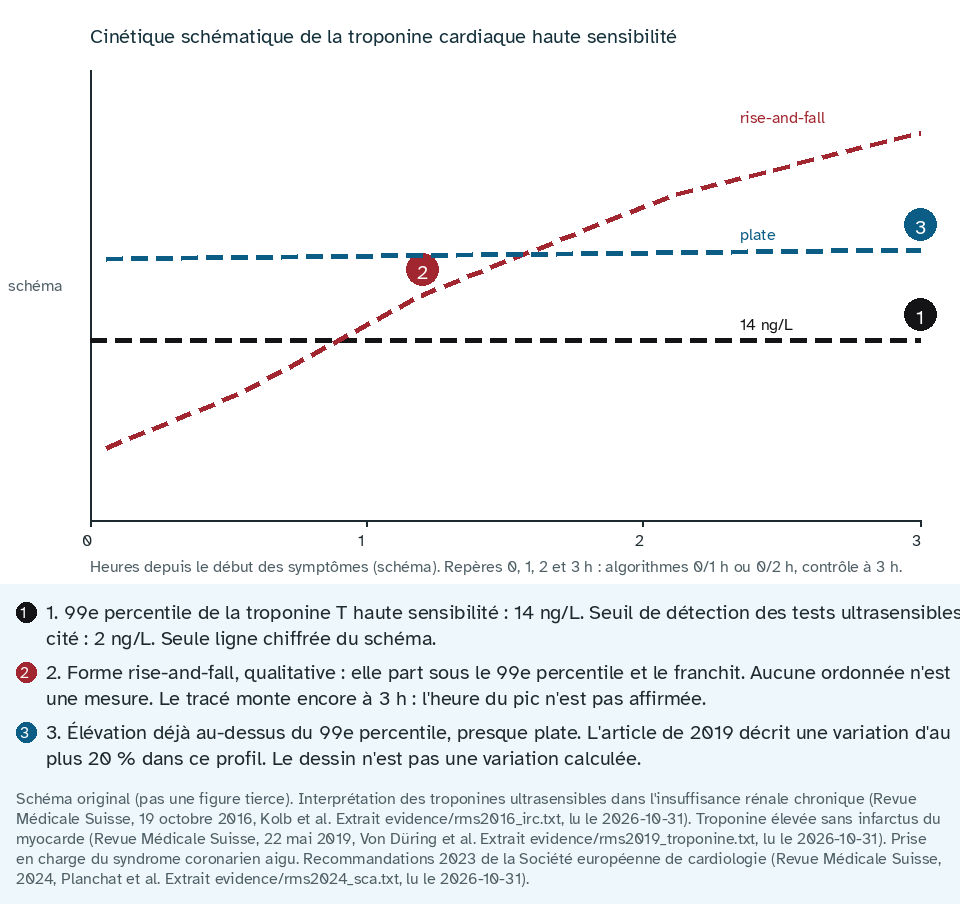
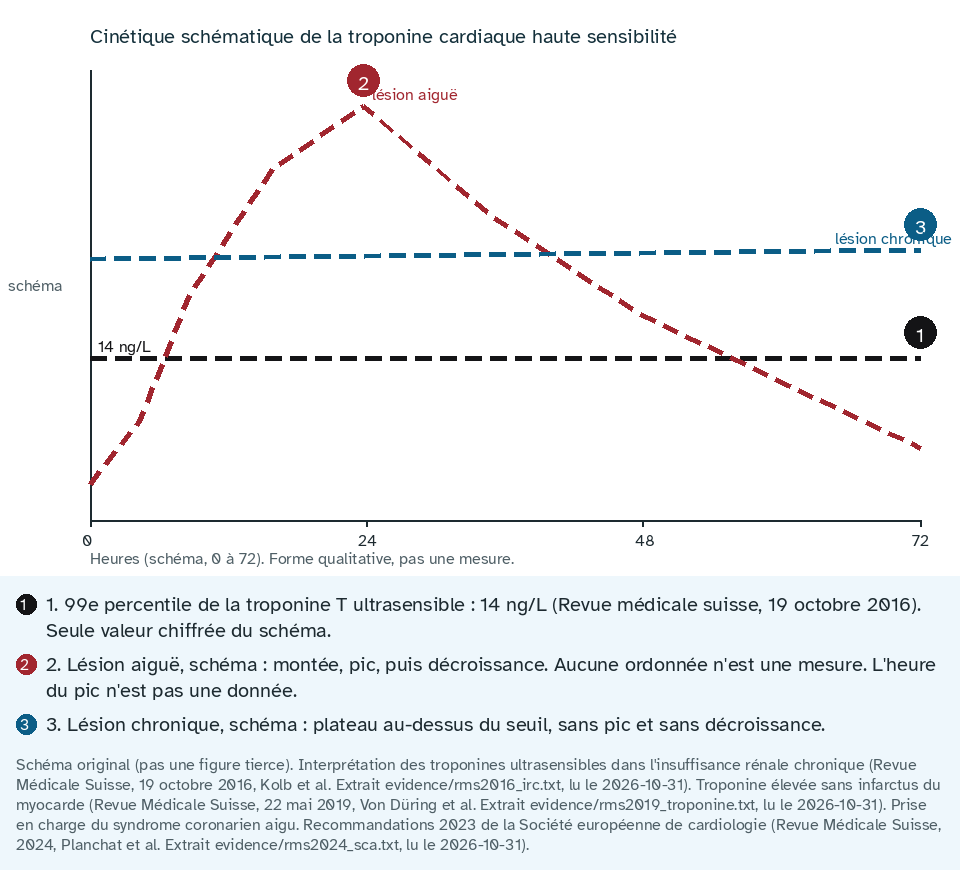
Illustration LOT 150 : aorte descendante et cinétique qui redescend
Le scanner Commons de type Stanford B remplace la coupe ambiguë. Les légendes reviennent à la ligne, y compris un mot trop long.

diff --git a/grok-LOTS-html/outils/illustration/exemples/LOT_150/exemple.html b/grok-LOTS-html/outils/illustration/exemples/LOT_150/exemple.html
@@ -28,12 +28,12 @@ figcaption ol{color:var(--texte);text-align:left;padding-left:1.2rem}
 <h1>Exemple d&#x27;illustration, enzymes cardiaques anormales</h1>
 <p class="avertissement">Document de démonstration de l'outil d'illustration, non validé cliniquement.</p>
 <figure class="schema illustration">
-<img src="lot150-dx9-scanner.png" alt="Scanner axial injecté d&#x27;une dissection de l&#x27;aorte ascendante, trois contours en pointillés">
+<img src="lot150-dx9-scanner.png" alt="Scanner injecté : aorte descendante avec voile intimal, coupe axiale et coronale">
 <figcaption>
-<strong>Dissection aortique aiguë, coupe axiale injectée</strong>
-<ol start="1"><li>Voile intimal : interface linéaire courbe dans l&#x27;aorte ascendante, sous le repère antérieur du cliché.</li><li>Compartiment le plus étroit, du côté gauche du voile sur cette photographie.</li><li>Compartiment le plus large, du côté droit du voile.</li></ol>
-<p>Coupe axiale photographiée après injection (la mention du produit de contraste est sur le fichier source, hors cadre). L&#x27;aorte ascendante est le gros vaisseau antérieur. Un voile linéaire la partage en deux compartiments. La page du fichier qualifie le cliché de dissection de type Stanford A, donc avec atteinte de l&#x27;aorte ascendante. Les croix et les pointillés blancs sont les mesures du fichier d&#x27;origine. Le contour coloré est l&#x27;annotation ajoutée. Cette photographie de film ne permet pas une mesure en unités Hounsfield : le vrai chenal et le faux chenal ne sont pas départagés ici par la densité.</p><p><strong>Pièges.</strong> Ne pas prendre les pointillés blancs du fichier source pour l&#x27;annotation. Ne pas conclure à un vrai chenal sur la seule impression de gris de cette photographie. Une seule coupe ne montre pas la porte d&#x27;entrée.</p>
-<p class="mention">Source : J. Heuser JHeuser. Licence : CC BY-SA 3.0. http://creativecommons.org/licenses/by-sa/3.0/ https://commons.wikimedia.org/wiki/File:AoDiss_CT_A-Diss.jpg Consulté le 2026-10-31. Image modifiée : recadrage pour retirer le cartouche technique du film (date et paramètres). Contours en pointillés et numéros ajoutés. Le parenchyme n&#x27;est pas retouché.</p>
+<strong>Dissection de l&#x27;aorte descendante, type Stanford B</strong>
+<ol start="1"><li>Voile intimal : interface courbe dans la lumière ronde, à gauche du rachis. La source nomme une dissection de l&#x27;aorte descendante.</li><li>Chenal le plus opacifié : croissant blanc dans cette aorte descendante. Le fichier ne le nomme pas vrai chenal.</li><li>Chenal le moins opacifié : le reste de la même lumière, plus gris. Le fichier ne le nomme pas faux chenal.</li></ol>
+<p>Scanner du thorax injecté, coupes axiale et coronale. La description du fichier indique une dissection traumatique de l&#x27;aorte descendante, type Stanford B. Le cercle et l&#x27;ovale rouges sont les marques de l&#x27;auteur. Les pointillés ajoutés restent dans la lumière ronde, du côté gauche du patient (à droite de l&#x27;image). Le repère « droite du patient » est à gauche de l&#x27;image. L&#x27;aorte ascendante n&#x27;est pas cernée : elle n&#x27;est pas isolée sur cette coupe.</p><p><strong>Pièges.</strong> Ne pas suivre le cercle rouge : il dépasse la lumière aortique. Ne pas appeler vrai chenal ou faux chenal ce que la source ne nomme pas.</p>
+<p class="mention">Source : JasonRobertYoungMD. Licence : CC BY-SA 4.0. https://creativecommons.org/licenses/by-sa/4.0 https://commons.wikimedia.org/wiki/File:Descending_(Type_B_Stanford)_Aortic_Dissection.PNG Consulté le 2026-10-31. Pointillés, numéros et repère « droite du patient » ajoutés. Le cercle rouge et l&#x27;ovale rouge sont ceux de l&#x27;auteur.</p>
 </figcaption>
 </figure>
 <figure class="schema illustration">
@@ -46,30 +46,30 @@ figcaption ol{color:var(--texte);text-align:left;padding-left:1.2rem}
 <line x1="90.0" y1="420" x2="90.0" y2="426" stroke="#1d2a30" stroke-width="2"/>
 <text x="82.0" y="446" font-size="15">0</text>
 <line x1="359.7" y1="420" x2="359.7" y2="426" stroke="#1d2a30" stroke-width="2"/>
-<text x="351.7" y="446" font-size="15">1</text>
+<text x="351.7" y="446" font-size="15">24</text>
 <line x1="629.5" y1="420" x2="629.5" y2="426" stroke="#1d2a30" stroke-width="2"/>
-<text x="621.5" y="446" font-size="15">2</text>
+<text x="621.5" y="446" font-size="15">48</text>
 <line x1="900.0" y1="420" x2="900.0" y2="426" stroke="#1d2a30" stroke-width="2"/>
-<text x="892.0" y="446" font-size="15">3</text>
-<text x="90" y="468" font-size="15" fill="#4f5f66">Heures depuis le début des symptômes (schéma). Repères 0, 1, 2 et 3 h : algorithmes 0/1 h ou 0/2 h, contrôle à 3 h.</text>
-<polyline points="90.0,274.4 900.0,274.4" fill="none" stroke="#141416" stroke-width="4" stroke-dasharray="14 8" stroke-linecap="round"/>
-<circle cx="900.0" cy="252.4" r="14" fill="#141416"/>
-<text x="895.0" y="257.4" font-size="16" fill="#ffffff">1</text>
-<polyline points="106.2,361.8 235.8,318.1 414.0,238.0 657.0,157.9 900.0,107.0" fill="none" stroke="#a1262f" stroke-width="4" stroke-dasharray="14 8" stroke-linecap="round"/>
-<circle cx="414.0" cy="216.0" r="14" fill="#a1262f"/>
-<text x="409.0" y="221.0" font-size="16" fill="#ffffff">2</text>
-<polyline points="106.2,208.9 900.0,201.6" fill="none" stroke="#0b5d86" stroke-width="4" stroke-dasharray="14 8" stroke-linecap="round"/>
+<text x="892.0" y="446" font-size="15">72</text>
+<text x="90" y="468" font-size="15" fill="#4f5f66">Heures (schéma, 0 à 72). Forme qualitative, pas une mesure.</text>
+<polyline points="90.0,289.0 900.0,289.0" fill="none" stroke="#141416" stroke-width="4" stroke-dasharray="14 8" stroke-linecap="round"/>
+<circle cx="900.0" cy="267.0" r="14" fill="#141416"/>
+<text x="895.0" y="272.0" font-size="16" fill="#ffffff">1</text>
+<polyline points="90.0,390.9 138.6,339.9 187.2,238.0 268.2,136.1 357.3,85.1 478.8,172.5 624.6,252.6 770.4,310.8 900.0,361.8" fill="none" stroke="#a1262f" stroke-width="4" stroke-dasharray="14 8" stroke-linecap="round"/>
+<circle cx="357.3" cy="63.1" r="14" fill="#a1262f"/>
+<text x="352.3" y="68.1" font-size="16" fill="#ffffff">2</text>
+<polyline points="90.0,208.9 900.0,201.6" fill="none" stroke="#0b5d86" stroke-width="4" stroke-dasharray="14 8" stroke-linecap="round"/>
 <circle cx="900.0" cy="179.6" r="14" fill="#0b5d86"/>
 <text x="895.0" y="184.6" font-size="16" fill="#ffffff">3</text>
 </svg>
 <figcaption>
 <strong>Cinétique schématique de la troponine cardiaque haute sensibilité</strong>
-<ol start="1"><li>99e percentile de la troponine T haute sensibilité : 14 ng/L. Seuil de détection des tests ultrasensibles cité : 2 ng/L. Seule ligne chiffrée du schéma.</li><li>Forme rise-and-fall, qualitative : elle part sous le 99e percentile et le franchit. Aucune ordonnée n&#x27;est une mesure. Le tracé monte encore à 3 h : l&#x27;heure du pic n&#x27;est pas affirmée.</li><li>Élévation déjà au-dessus du 99e percentile, presque plate. L&#x27;article de 2019 décrit une variation d&#x27;au plus 20 % dans ce profil. Le dessin n&#x27;est pas une variation calculée.</li></ol>
-<p>Schéma original, pas une figure copiée. L&#x27;axe vertical n&#x27;a pas d&#x27;échelle de patient : le seul chiffre de concentration est la ligne 1. Un changement absolu de 7 ng/L, soit 50 % de l&#x27;URL, est le critère de cinétique significative cité en 2016 pour la troponine T ultrasensible. Les mêmes auteurs discutent un changement relatif supérieur à 20 % lorsque toutes les mesures sont déjà positives. La Société européenne de cardiologie, dans le résumé suisse de 2024, recommande un algorithme à l&#x27;admission et à 1 heure, ou à 2 heures si le premier n&#x27;est pas faisable, puis une voie d&#x27;observation avec un dosage à 3 heures. Les seuils numériques propres à chaque dosage ne sont pas dessinés : l&#x27;extrait lu dit qu&#x27;ils dépendent du fabricant.</p><p><strong>Pièges.</strong> La troponine est spécifique du myocarde, pas d&#x27;une maladie (article de 2019). Aucun extrait lu ne donne une cinétique propre à la dissection aortique. Ne pas lire les courbes comme le résultat d&#x27;un patient. Ne pas confondre ce schéma avec les seuils 0/1 h d&#x27;un fabricant, qui ne sont pas dans l&#x27;extrait de 2024.</p>
+<ol start="1"><li>99e percentile de la troponine T ultrasensible : 14 ng/L (Revue médicale suisse, 19 octobre 2016). Seule valeur chiffrée du schéma.</li><li>Lésion aiguë, schéma : montée, pic, puis décroissance. Aucune ordonnée n&#x27;est une mesure. L&#x27;heure du pic n&#x27;est pas une donnée.</li><li>Lésion chronique, schéma : plateau au-dessus du seuil, sans pic et sans décroissance.</li></ol>
+<p>Schéma original. L&#x27;axe vertical n&#x27;a pas d&#x27;échelle de patient. Le seul chiffre est la ligne 1. La courbe 2 montre une lésion aiguë : elle franchit le seuil, culmine, puis redescend. La courbe 3 montre une lésion chronique, presque plate. Les seuils propres à un dosage ne sont pas dessinés.</p><p><strong>Pièges.</strong> Ne pas lire ces courbes comme le résultat d&#x27;un patient. Ne pas confondre le plateau chronique avec la décroissance d&#x27;une lésion aiguë.</p>
 <p class="mention">Schéma original (pas une figure tierce). Interprétation des troponines ultrasensibles dans l&#x27;insuffisance rénale chronique (Revue Médicale Suisse, 19 octobre 2016, Kolb et al. Extrait evidence/rms2016_irc.txt, lu le 2026-10-31). Troponine élevée sans infarctus du myocarde (Revue Médicale Suisse, 22 mai 2019, Von Düring et al. Extrait evidence/rms2019_troponine.txt, lu le 2026-10-31). Prise en charge du syndrome coronarien aigu. Recommandations 2023 de la Société européenne de cardiologie (Revue Médicale Suisse, 2024, Planchat et al. Extrait evidence/rms2024_sca.txt, lu le 2026-10-31).</p>
 </figcaption>
 </figure>
-<h2 id="ess">L&#x27;essentiel</h2><p>Deux figures pour le LOT 150 : scanner annoté d&#x27;une dissection aortique, et schéma de cinétique de la troponine haute sensibilité. Ce n&#x27;est pas la leçon.</p><h2 id="som">Sommaire</h2><p>La leçon reste dans le LOT, en lecture seule. Cette page ne fait que montrer le rendu de l&#x27;outil.</p><h2 id="p1">1. Définition</h2><p>Le signe dessiné est celui visible sur le cliché source, pas une définition inventée.</p><h2 id="p2">2. Épidémiologie</h2><p>Aucune fréquence n&#x27;est ajoutée ici.</p><h2 id="p3">3. Physiopathologie</h2><p>Le schéma de troponine sépare une forme rise-and-fall d&#x27;une forme plate, toutes deux qualitatives.</p><h2 id="p4">4. Démarche</h2><p>L&#x27;ordre des numéros suit la lecture du cliché, puis le graphe de gauche à droite.</p><h2 id="p5">5. Anamnèse</h2><p>Pas d&#x27;histoire clinique dans cette page.</p><h2 id="p6">6. Examen</h2><p>Pas d&#x27;examen physique dans cette page.</p><h2 id="p7">7. Syndromes</h2><p>La sémiologie du scanner est sous la première figure.</p><h2 id="p8">8. Diagnostic</h2><p>La source Commons nomme une dissection de type Stanford A.</p><h2 id="p9">9. Examens</h2><p>Scanner injecté pour l&#x27;imagerie. Schéma pour la biologie, faute d&#x27;une lame utile.</p><h2 id="p10">10. Décision</h2><p>Les seuils d&#x27;un dosage particulier ne sont pas dessinés.</p><h2 id="p11">11. Suisse</h2><p>Les chiffres repris viennent des textes suisses lus dans le dossier de preuves.</p><h2 id="p12">12. Prévention</h2><p>Hors sujet de cette illustration.</p><h2 id="p13">13. Points clés</h2><p>Licence libre obligatoire. Contour en pointillés. Numéros lisibles.</p><h2 id="p14">14. Pièges</h2><p>Ne pas lire une densité sur cette photographie de film. Ne pas attribuer une cinétique à la dissection sans source.</p><h2 id="sources">Sources</h2><p>Détail dans SOURCES.json du même dossier. Source : J. Heuser JHeuser. Licence : CC BY-SA 3.0. http://creativecommons.org/licenses/by-sa/3.0/ https://commons.wikimedia.org/wiki/File:AoDiss_CT_A-Diss.jpg Consulté le 2026-10-31. </p>
+<h2 id="ess">L&#x27;essentiel</h2><p>Deux figures pour le LOT 150 : scanner annoté d&#x27;une dissection aortique, et schéma de cinétique de la troponine haute sensibilité. Ce n&#x27;est pas la leçon.</p><h2 id="som">Sommaire</h2><p>La leçon reste dans le LOT, en lecture seule. Cette page ne fait que montrer le rendu de l&#x27;outil.</p><h2 id="p1">1. Définition</h2><p>Le signe dessiné est celui visible sur le cliché source, pas une définition inventée.</p><h2 id="p2">2. Épidémiologie</h2><p>Aucune fréquence n&#x27;est ajoutée ici.</p><h2 id="p3">3. Physiopathologie</h2><p>Le schéma de troponine sépare une forme rise-and-fall d&#x27;une forme plate, toutes deux qualitatives.</p><h2 id="p4">4. Démarche</h2><p>L&#x27;ordre des numéros suit la lecture du cliché, puis le graphe de gauche à droite.</p><h2 id="p5">5. Anamnèse</h2><p>Pas d&#x27;histoire clinique dans cette page.</p><h2 id="p6">6. Examen</h2><p>Pas d&#x27;examen physique dans cette page.</p><h2 id="p7">7. Syndromes</h2><p>La sémiologie du scanner est sous la première figure.</p><h2 id="p8">8. Diagnostic</h2><p>La source Commons nomme une dissection de type Stanford A.</p><h2 id="p9">9. Examens</h2><p>Scanner injecté pour l&#x27;imagerie. Schéma pour la biologie, faute d&#x27;une lame utile.</p><h2 id="p10">10. Décision</h2><p>Les seuils d&#x27;un dosage particulier ne sont pas dessinés.</p><h2 id="p11">11. Suisse</h2><p>Les chiffres repris viennent des textes suisses lus dans le dossier de preuves.</p><h2 id="p12">12. Prévention</h2><p>Hors sujet de cette illustration.</p><h2 id="p13">13. Points clés</h2><p>Licence libre obligatoire. Contour en pointillés. Numéros lisibles.</p><h2 id="p14">14. Pièges</h2><p>Ne pas lire une densité sur cette photographie de film. Ne pas attribuer une cinétique à la dissection sans source.</p><h2 id="sources">Sources</h2><p>Détail dans SOURCES.json du même dossier. Source : JasonRobertYoungMD. Licence : CC BY-SA 4.0. https://creativecommons.org/licenses/by-sa/4.0 https://commons.wikimedia.org/wiki/File:Descending_(Type_B_Stanford)_Aortic_Dissection.PNG Consulté le 2026-10-31. </p>
 </main>
 </body>
 </html>

diff --git a/grok-LOTS-html/outils/illustration/illustrer.py b/grok-LOTS-html/outils/illustration/illustrer.py
@@ -474,9 +474,10 @@ def annoter_image(im: Image.Image, lesions: list[dict], modalite: str) -> tuple[
     fonds = [echantillon(im, pts) for _, pts, _ in geos]
     couleurs = choisir_couleurs(fonds)
     draw = ImageDraw.Draw(im)
-    trait = max(4, min(w, h) // 140)
+    # Plafond : sur un grand cliché, un numéro calé sur la largeur de l'image cache la lésion.
+    trait = min(5, max(3, min(w, h) // 220))
     on, off = trait * 3.2, trait * 2.2
-    rayon = max(16, min(w, h) // 36)
+    rayon = min(18, max(13, min(w, h) // 80))
     font = _police(max(16, rayon))
     pris = []
     for (lesion, pts, ferme), coul in zip(geos, couleurs):
@@ -492,16 +493,36 @@ def annoter_image(im: Image.Image, lesions: list[dict], modalite: str) -> tuple[
     return im, [g[0] for g in geos], couleurs
 
 
-def _plier(texte: str, font, largeur: int) -> list[str]:
-    mots, lignes, cour = texte.split(), [], ""
-    for mot in mots:
-        essai = (cour + " " + mot).strip()
-        if font.getlength(essai) <= largeur:
-            cour = essai
+def _morceaux(mot: str, font, largeur: int) -> list[str]:
+    """Coupe un mot plus large que la ligne, sinon le rend tel quel."""
+    if largeur < 8:
+        largeur = 8
+    if font.getlength(mot) <= largeur:
+        return [mot]
+    out, cour = [], ""
+    for ch in mot:
+        if cour and font.getlength(cour + ch) > largeur:
+            out.append(cour)
+            cour = ch
         else:
-            if cour:
+            cour += ch
+    if cour:
+        out.append(cour)
+    return out or [mot]
+
+
+def _plier(texte: str, font, largeur: int) -> list[str]:
+    """Retour à la ligne : aucun fragment ne dépasse `largeur`."""
+    largeur = max(8, int(largeur))
+    lignes, cour = [], ""
+    for mot in (texte or "").split():
+        for part in _morceaux(mot, font, largeur):
+            essai = (cour + " " + part).strip()
+            if cour and font.getlength(essai) > largeur:
                 lignes.append(cour)
-            cour = mot
+                cour = part
+            else:
+                cour = essai
     if cour:
         lignes.append(cour)
     return lignes or [""]
@@ -511,9 +532,12 @@ def bande_legende(im: Image.Image, lesions: list[dict], couleurs: list[tuple[int
     font = _police(max(18, im.width // 48))
     petit = _police(max(15, im.width // 58))
     marge, inter = 16, 8
+    pastille = font.size
+    indent = marge + pastille + 10
+    largeur_texte = im.width - indent - marge
     lignes: list[tuple] = []
     for lesion, coul in zip(lesions, couleurs):
-        bloc = _plier(f"{lesion['numero']}. {lesion.get('legende') or lesion.get('etiquette') or ''}", font, im.width - 2 * marge)
+        bloc = _plier(f"{lesion['numero']}. {lesion.get('legende') or lesion.get('etiquette') or ''}", font, largeur_texte)
         lignes.append((bloc, coul, font))
     attr = _plier(attribution, petit, im.width - 2 * marge)
     haut = marge
@@ -530,9 +554,9 @@ def bande_legende(im: Image.Image, lesions: list[dict], couleurs: list[tuple[int
                 draw.ellipse([marge, y + 2, marge + f.size, y + 2 + f.size], fill=coul)
                 encre_n = (255, 255, 255) if luminance(coul) < 0.45 else (20, 20, 22)
                 draw.text((marge + 4, y + 2), str(ligne.split(".", 1)[0]), fill=encre_n, font=petit)
-                draw.text((marge + f.size + 10, y), ligne, fill=(29, 42, 48), font=f)
+                draw.text((indent, y), ligne, fill=(29, 42, 48), font=f)
             else:
-                draw.text((marge + f.size + 10, y), ligne, fill=(29, 42, 48), font=f)
+                draw.text((indent, y), ligne, fill=(29, 42, 48), font=f)
             y += f.size + 6
         y += inter
     y += inter
@@ -639,13 +663,39 @@ def obtenir_image(annotation: dict) -> tuple[Image.Image, dict]:
         if L.get("numero_xy") and cadre:
             L["numero_xy"] = [float(L["numero_xy"][0]) - ox, float(L["numero_xy"][1]) - oy]
         lesions.append(L)
-    return im, {**annotation, "source": src, "lesions": lesions, "_origine": (ox, oy)}
+    reperes = []
+    for r in annotation.get("reperes") or []:
+        rr = dict(r)
+        if cadre:
+            rr["x"] = float(r["x"]) - ox
+            rr["y"] = float(r["y"]) - oy
+        reperes.append(rr)
+    return im, {**annotation, "source": src, "lesions": lesions, "reperes": reperes, "_origine": (ox, oy)}
+
+
+def _dessiner_reperes(im: Image.Image, reperes: list[dict]) -> None:
+    if not reperes:
+        return
+    font = _police(max(16, im.width // 55))
+    draw = ImageDraw.Draw(im)
+    for r in reperes:
+        texte = str(r.get("texte") or "")
+        if not texte:
+            continue
+        x, y = int(r["x"]), int(r["y"])
+        bb = font.getbbox(texte)
+        tw, th = bb[2] - bb[0], bb[3] - bb[1]
+        x = min(max(2, x), im.width - tw - 10)
+        y = min(max(2, y), im.height - th - 8)
+        draw.rectangle([x, y, x + tw + 8, y + th + 6], fill=(20, 20, 22))
+        draw.text((x + 4 - bb[0], y + 2 - bb[1]), texte, fill=(255, 255, 255), font=font)
 
 
 def rendre_imagerie(annotation: dict, dossier: Path) -> dict:
     im, ann = obtenir_image(annotation)
     modalite = ann.get("modalite") or "scanner"
     annote, lesions, couleurs = annoter_image(im, ann["lesions"], modalite)
+    _dessiner_reperes(annote, ann.get("reperes") or [])
     modif = ann.get("modification") or ""
     attr = attribution_image(ann["source"], modif)
     final = bande_legende(annote, lesions, couleurs, attr)
@@ -709,8 +759,9 @@ def rendre_biologie(annotation: dict, dossier: Path) -> dict:
         draw.line([(xx, y1), (xx, y1 + 6)], fill=(29, 42, 48), width=2)
         draw.text((xx - 8, y1 + 10), str(lab), fill=(29, 42, 48), font=petit)
     axe = annotation.get("axe_x") or ""
-    if axe:
-        draw.text((x0, y1 + 36), axe, fill=(79, 95, 102), font=petit)
+    axe_lignes = _plier(axe, petit, x1 - x0) if axe else []
+    for i, ligne in enumerate(axe_lignes):
+        draw.text((x0, y1 + 28 + i * (petit.size + 4)), ligne, fill=(79, 95, 102), font=petit)
     trait = 5
     lesions = []
     pris = []
@@ -729,7 +780,12 @@ def rendre_biologie(annotation: dict, dossier: Path) -> dict:
         bb = font.getbbox(chiffre)
         draw.text((cx - (bb[2] - bb[0]) / 2, cy - (bb[3] - bb[1]) / 2 - 2), chiffre, fill=encre, font=font)
         if el.get("etiquette"):
-            draw.text((pts[-1][0] - 180, pts[-1][1] - 26), el["etiquette"], fill=coul, font=petit)
+            et = el["etiquette"]
+            tw = petit.getlength(et)
+            sommet = min(pts, key=lambda p: p[1])
+            ex = min(max(x0, sommet[0] + 8), W - tw - 8)
+            ey = max(18, sommet[1] - 22)
+            draw.text((ex, ey), et, fill=coul, font=petit)
     src = dict(annotation.get("source") or {})
     src.setdefault("date_acces", date.today().isoformat())
     src.setdefault("entrepot", "schema")
@@ -740,7 +796,8 @@ def rendre_biologie(annotation: dict, dossier: Path) -> dict:
     )
     # Bande sous le graphe : on recolle car le graphe a déjà une marge basse.
     # On coupe la marge basse vide pour coller la légende.
-    graphe = fond.crop((0, 0, W, y1 + 64))
+    bas = y1 + 36 + max(1, len(axe_lignes)) * (petit.size + 4)
+    graphe = fond.crop((0, 0, W, min(H - 1, bas)))
     final = bande_legende(graphe, lesions, couleurs, attr)
     ident = annotation.get("id") or "biologie"
     dossier.mkdir(parents=True, exist_ok=True)
@@ -1008,6 +1065,22 @@ def _autotest() -> int:
     noirs = sum(1 for x in range(5, 190) if px[x, 20][0] < 30)
     blancs = sum(1 for x in range(5, 190) if px[x, 20][0] > 200)
     ok(noirs > 20 and blancs > 20, f"pointillés sans trous (noirs={noirs}, blancs={blancs})")
+
+    # Légende : le texte ne doit pas sortir du bord droit, même un mot très long.
+    fond_bande = (238, 247, 252)
+    base = Image.new("RGB", (280, 30), (255, 255, 255))
+    longue = "99e percentile de la troponine T ultrasensible : 14 ng/L. " * 3 + ("X" * 60)
+    bande = bande_legende(base, [{"numero": 1, "legende": longue}], [(20, 20, 22)], "Source longue " * 12)
+    bp = bande.load()
+    debord = 0
+    for y in range(base.height, bande.height):
+        for x in range(bande.width - 6, bande.width):
+            if bp[x, y][:3] != fond_bande:
+                debord += 1
+    ok(debord == 0, f"légende qui déborde à droite : {debord} px")
+    font_test = _police(22)
+    for ligne in _plier(longue, font_test, 180):
+        ok(font_test.getlength(ligne) <= 180, "ligne de légende plus large que la mesure")
 
     # Fragment et refus de licence.
     frag = fragment_figure("Titre", "alt", "<svg></svg>", [{"numero": 1, "legende": "Un"}], "Sémiologie.", "Auteur. CC BY. Consulté le 2026-10-31.", [])

diff --git a/grok-LOTS-html/outils/illustration/README.md b/grok-LOTS-html/outils/illustration/README.md
@@ -56,7 +56,7 @@ Un schéma biologique (`"entrepot": "schema"`) ne télécharge pas d'image. Chaq
 
 `forme` : `polyligne` (ouvert), `polygone` (fermé), `ellipse` (`ellipse.cx/cy/rx/ry`, `norm` vrai si 0–1), `rect` (`rect.x/y/w/h`).
 
-`points` : pixels du fichier entier, avant le cadre. `points_norm` : 0–1 de l'image déjà cadrée.
+`points` : pixels du fichier entier, avant le cadre. `points_norm` : 0–1 de l'image déjà cadrée. `reperes` : `[{texte, x, y}]`, repère d'orientation en pixels du fichier entier.
 
 `ordre` fixe la lecture. Sans `ordre`, le cliché se lit de haut en bas puis de gauche à droite. Pour un ECG, de gauche à droite. Les numéros 1, 2, 3 suivent cet ordre. Rien n'est ajouté s'il n'y a pas de coordonnées.
 
